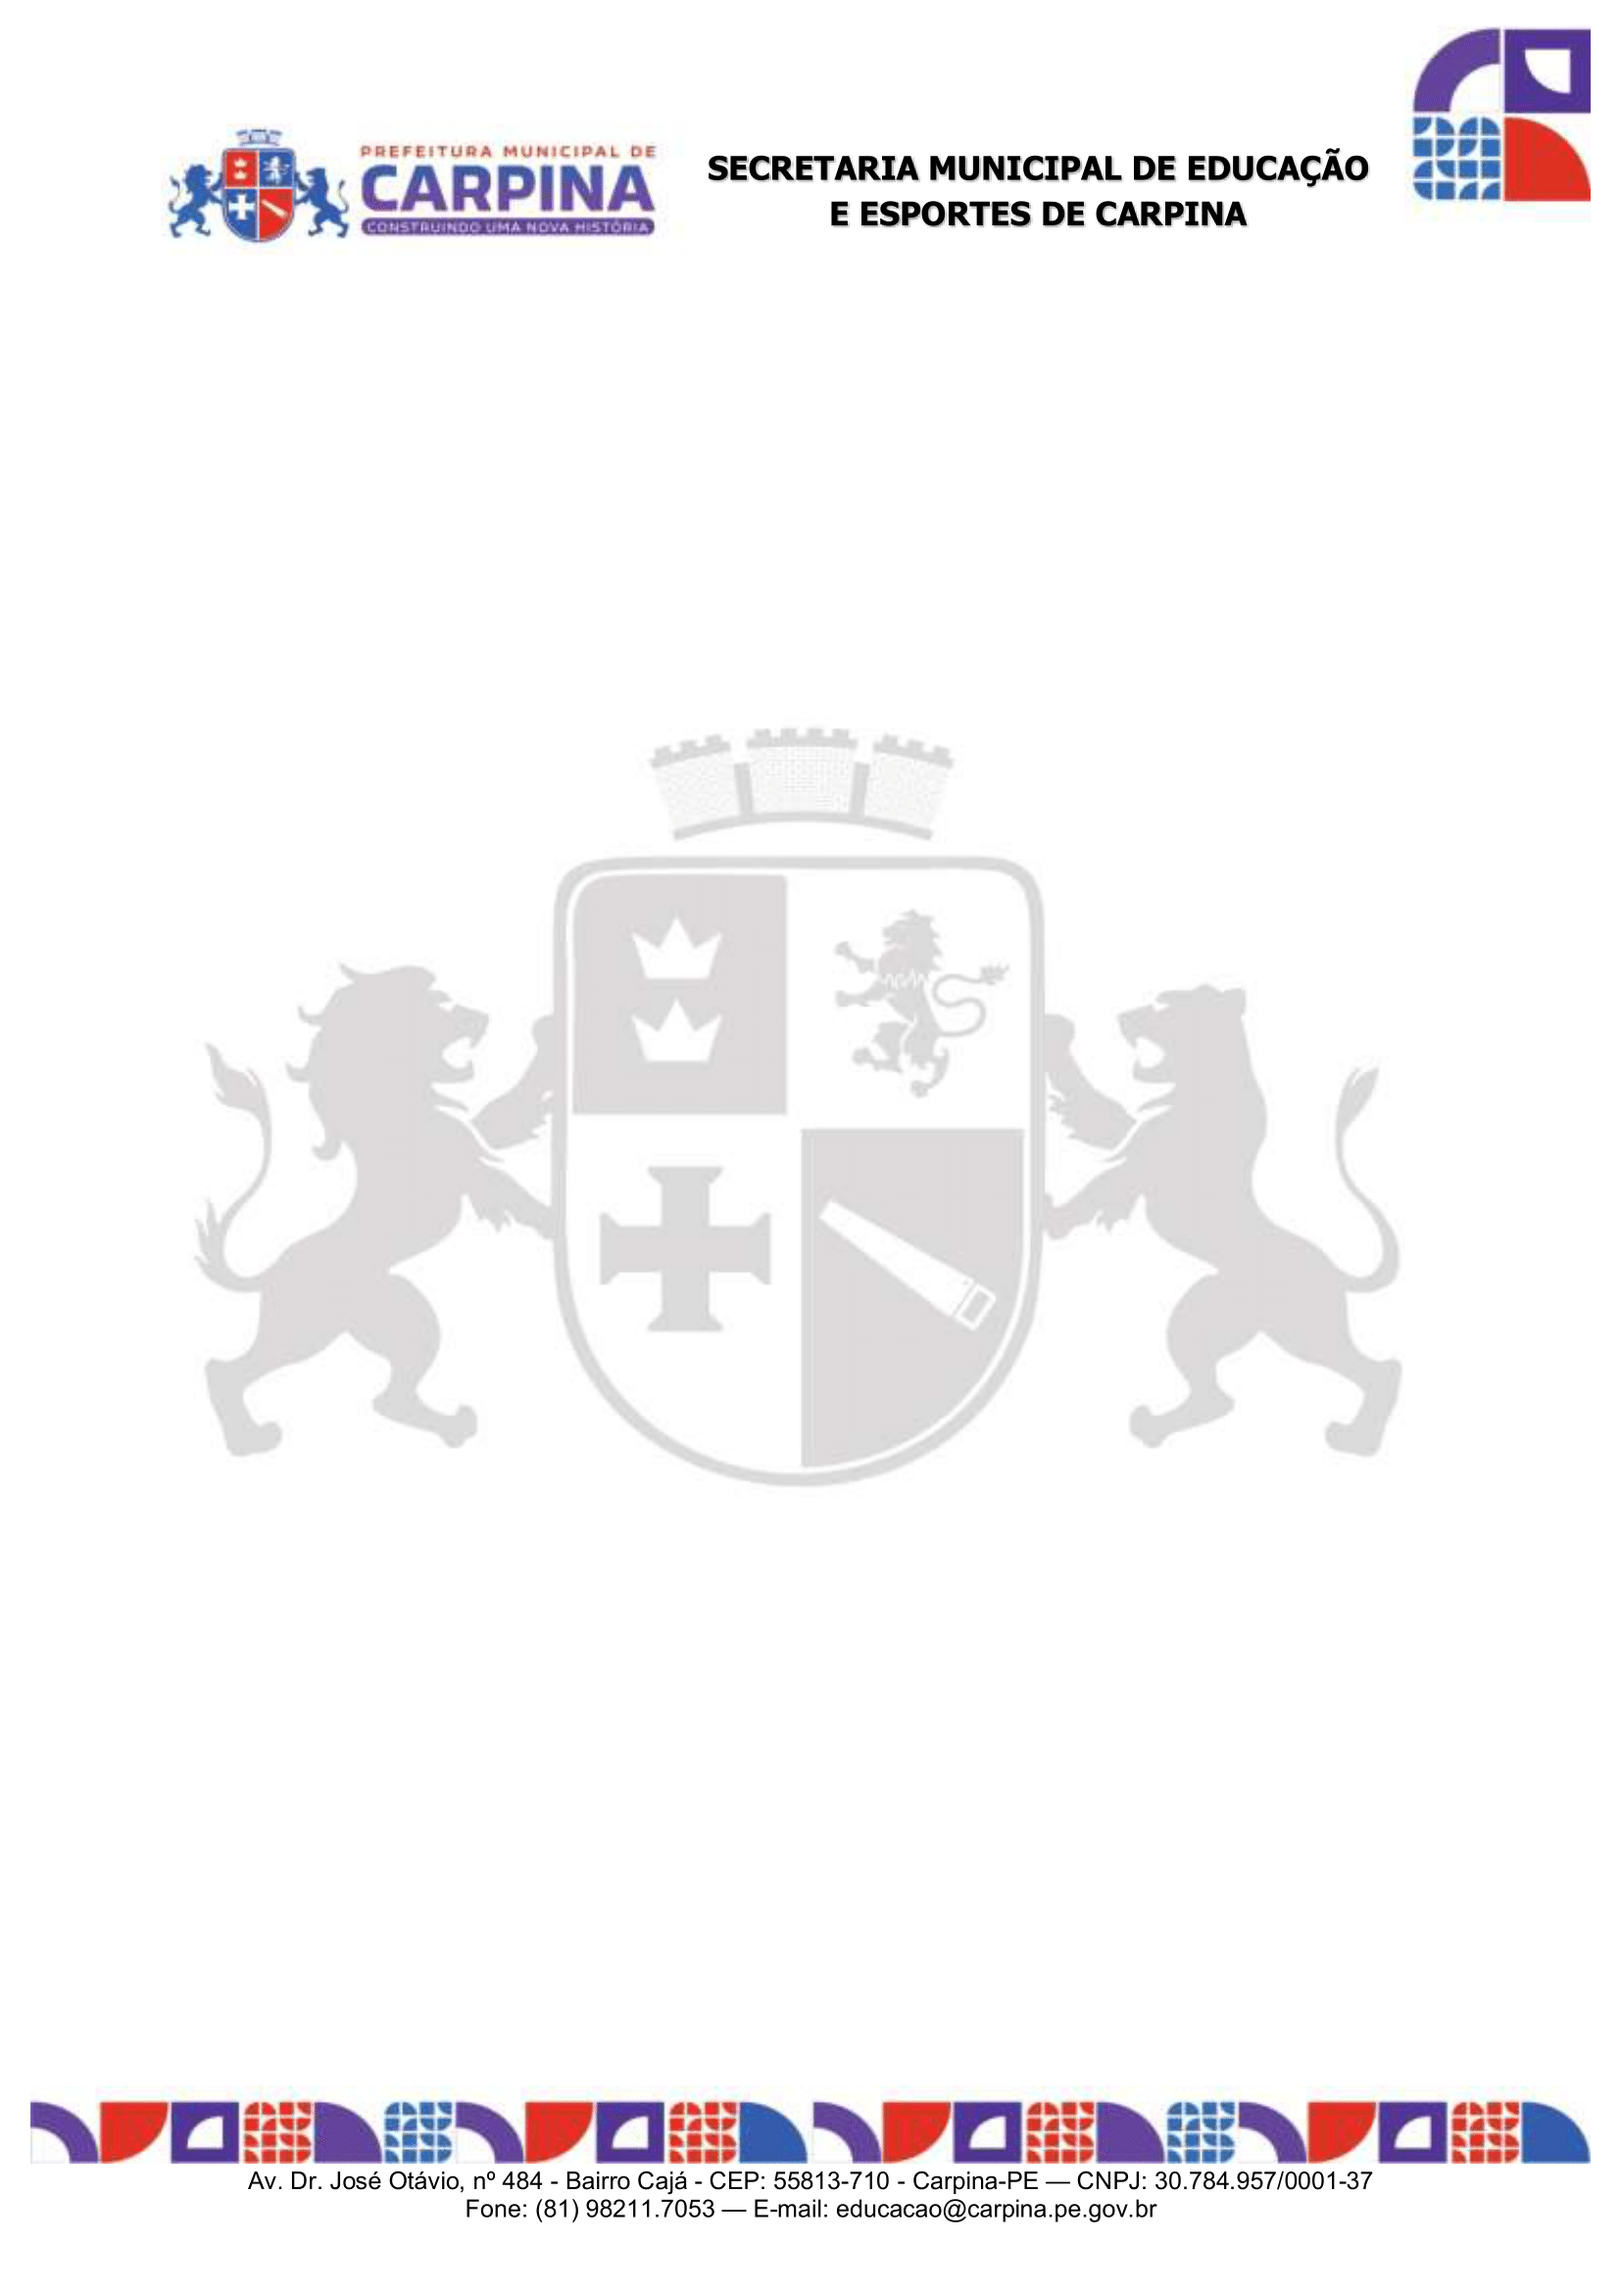
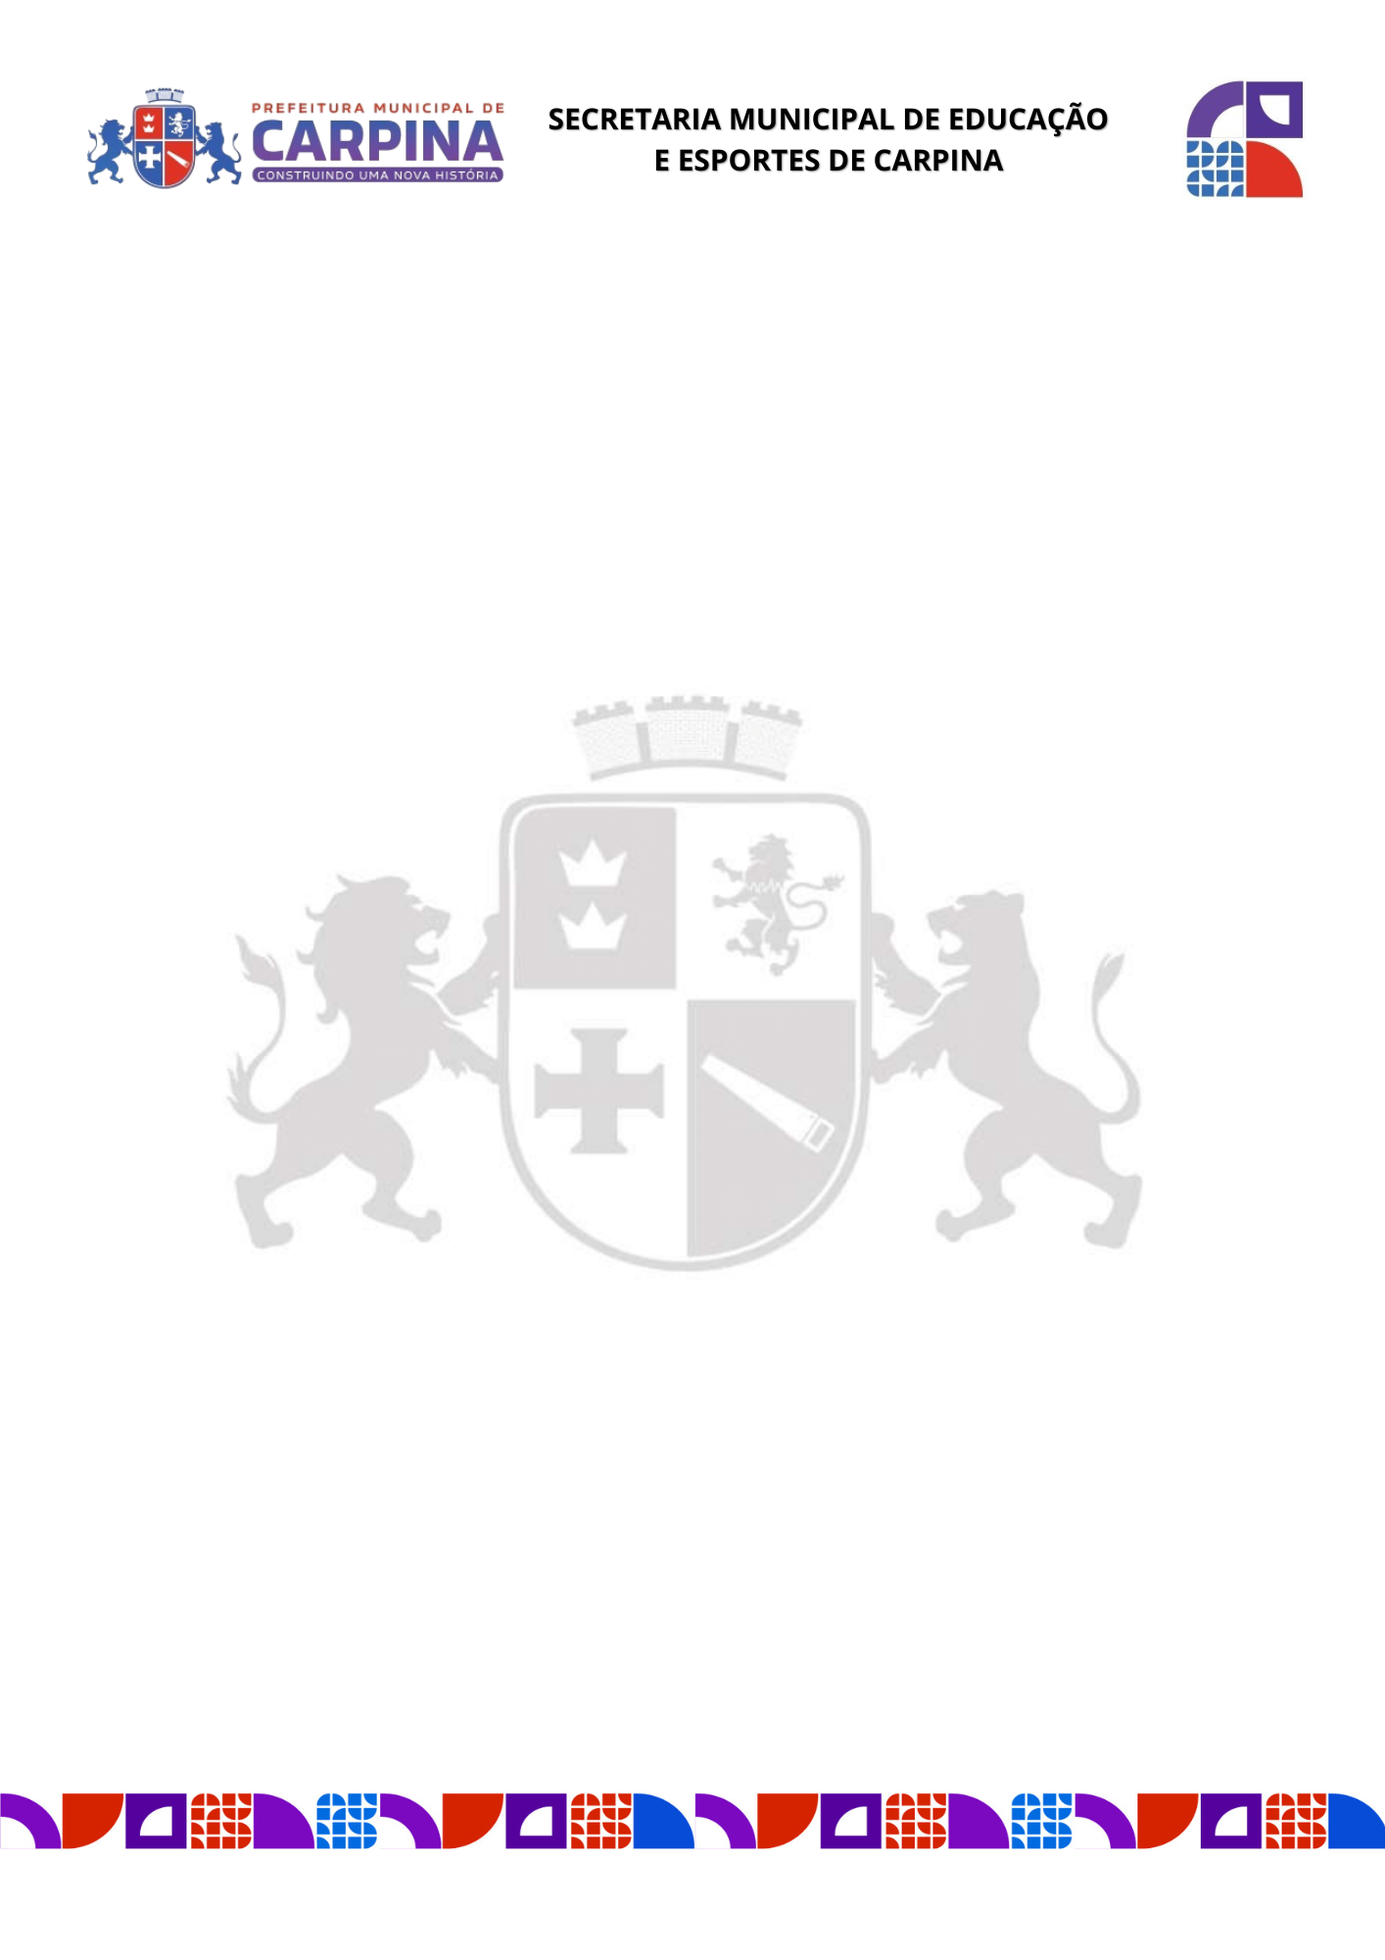
Cria a página de quadros distributivos

diff --git a/src/js/quadros.js b/src/js/quadros.js
@@ -1,0 +1,199 @@
+import { rtdb } from "./firebaseConfig.js";
+import {
+  ref,
+  onValue,
+} from "https://www.gstatic.com/firebasejs/11.0.1/firebase-database.js";
+
+const selectLocal = document.getElementById("selectLocal");
+const btnGerar = document.getElementById("btnGerarQuadro");
+
+let servidores = [];
+let locais = [];
+
+// ===============================
+// 🔄 ESTADO INICIAL (CARREGANDO)
+// ===============================
+selectLocal.innerHTML = `<option>Carregando...</option>`;
+selectLocal.disabled = true;
+
+// ===============================
+// 🔥 CARREGAR SERVIDORES
+// ===============================
+onValue(ref(rtdb, "servidores/registros"), (snap) => {
+  if (!snap.exists()) return;
+
+  servidores = Object.values(snap.val());
+});
+
+// ===============================
+// 🔥 CARREGAR LOCAIS
+// ===============================
+onValue(ref(rtdb, "servidores/locaisExercicio"), (snap) => {
+  selectLocal.innerHTML = "";
+
+  if (!snap.exists()) {
+    selectLocal.innerHTML = `<option>Nenhuma lotação encontrada</option>`;
+    selectLocal.disabled = true;
+    return;
+  }
+
+  locais = Object.values(snap.val());
+
+  // opção padrão
+  const optDefault = document.createElement("option");
+  optDefault.value = "";
+  optDefault.textContent = "Selecione uma lotação";
+  optDefault.disabled = true;
+  optDefault.selected = true;
+  selectLocal.appendChild(optDefault);
+
+  // opções
+  locais.forEach((l) => {
+    const opt = document.createElement("option");
+    opt.value = l;
+    opt.textContent = l;
+    selectLocal.appendChild(opt);
+  });
+
+  selectLocal.disabled = false;
+});
+
+// ===============================
+// 📄 GERAR PDF
+// ===============================
+btnGerar.addEventListener("click", () => {
+  const local = selectLocal.value;
+
+  if (!local) {
+    mostrarNotificacao("Selecione uma lotação.", "erro");
+    return;
+  }
+
+  const filtrados = servidores.filter(
+    (s) => s.localExercicio === local && s.situacao === "Ativo",
+  );
+
+  if (!filtrados.length) {
+    mostrarNotificacao("Nenhum servidor encontrado.", "erro");
+    return;
+  }
+
+  gerarPDF(local, filtrados);
+});
+
+// ===============================
+// 🧾 FUNÇÃO PDF
+// ===============================
+function gerarPDF(local, lista) {
+  const { jsPDF } = window.jspdf;
+  const doc = new jsPDF("p", "mm", "a4");
+
+  const largura = 210;
+  const altura = 297;
+
+  const img = new Image();
+  img.src = "./src/images/papel-timbrado.png";
+
+  img.onload = () => {
+    const MARGEM_TOPO = 40;
+    let y = MARGEM_TOPO;
+
+    const hoje = new Date().toLocaleDateString("pt-BR");
+
+    function novaPagina() {
+      doc.addPage();
+      doc.addImage(img, "PNG", 0, 0, largura, altura);
+      y = MARGEM_TOPO;
+    }
+
+    // primeira página
+    doc.addImage(img, "PNG", 0, 0, largura, altura);
+
+    // título
+    doc.setFontSize(14);
+    doc.text("QUADRO DE SERVIDORES", 105, y, { align: "center" });
+
+    y += 8;
+    doc.setFontSize(11);
+    doc.text(local, 105, y, { align: "center" });
+
+    y += 6;
+    doc.setFontSize(9);
+    doc.text(`Gerado em ${hoje}`, 105, y, { align: "center" });
+
+    y += 10;
+
+    // agrupar por cargo
+    const grupos = {};
+    lista.forEach((s) => {
+      if (!grupos[s.cargo]) grupos[s.cargo] = [];
+      grupos[s.cargo].push(s);
+    });
+
+    Object.keys(grupos)
+      .sort()
+      .forEach((cargo) => {
+        y += 8;
+
+        if (y > 260) novaPagina();
+
+        doc.setFontSize(12);
+        doc.setFont(undefined, "bold");
+        doc.text(cargo.toUpperCase(), 10, y);
+
+        y += 4;
+        doc.setFont(undefined, "normal");
+
+        grupos[cargo]
+          .sort((a, b) => a.nome.localeCompare(b.nome))
+          .forEach((s) => {
+            y += 6;
+
+            if (y > 260) novaPagina();
+
+            // cor do vínculo
+            if (s.vinculo.toLowerCase().includes("efetivo")) {
+              doc.setFillColor(144, 238, 144);
+            } else {
+              doc.setFillColor(255, 255, 153);
+            }
+
+            doc.rect(10, y - 4, 190, 6, "F");
+            doc.text(s.nome, 12, y);
+          });
+      });
+
+    // =========================
+    // 📌 RODAPÉ
+    // =========================
+    const totalPaginas = doc.getNumberOfPages();
+
+    for (let i = 1; i <= totalPaginas; i++) {
+      doc.setPage(i);
+
+      let yRodape = altura - 10;
+
+      doc.setFontSize(9);
+
+      // verde
+      doc.setFillColor(144, 238, 144);
+      doc.rect(10, yRodape - 4, 5, 5, "F");
+      doc.text("Efetivos", 17, yRodape);
+
+      // amarelo
+      doc.setFillColor(255, 255, 153);
+      doc.rect(60, yRodape - 4, 5, 5, "F");
+      doc.text("Contratos", 67, yRodape);
+
+      // paginação
+      doc.text(`Página ${i} de ${totalPaginas}`, largura - 20, yRodape, {
+        align: "right",
+      });
+    }
+
+    // abrir em nova aba
+    const blob = doc.output("blob");
+    const url = URL.createObjectURL(blob);
+    window.open(url, "_blank");
+  };
+}

diff --git a/quadros.html b/quadros.html
@@ -1,0 +1,58 @@
+<!doctype html>
+<html lang="pt-br">
+  <head>
+    <meta charset="UTF-8" />
+    <meta name="viewport" content="width=device-width, initial-scale=1.0" />
+    <title>Quadro de Servidores - SEE Carpina</title>
+    <link rel="stylesheet" href="./src/css/style.css" />
+    <link
+      rel="stylesheet"
+      href="https://fonts.googleapis.com/css2?family=Material+Symbols+Outlined:opsz,wght,FILL,GRAD@20..48,100..700,0..1,-50..200"
+    />
+  </head>
+
+  <body>
+    <button id="btnTopo">↑</button>
+    <div class="loading">
+      <svg
+        class="svg-spinner"
+        viewBox="0 0 50 50"
+        role="img"
+        aria-label="Carregando"
+      >
+        <circle
+          class="path"
+          cx="25"
+          cy="25"
+          r="20"
+          fill="none"
+          stroke-width="4"
+        />
+      </svg>
+    </div>
+    <div class="container">
+      <aside id="sidebar"></aside>
+      <main>
+        <h1>Quadro de Servidores</h1>
+
+        <div class="box">
+          <div class="primary">
+            <marquee>
+              OBS: Em construção e atualização. Não usar como oficial
+            </marquee>
+          </div>
+          <label>Selecione a escola:</label>
+          <select id="selectLocal"></select>
+
+          <button id="btnGerarQuadro" class="btn">📄 Gerar PDF</button>
+        </div>
+      </main>
+      <div class="right"></div>
+    </div>
+
+    <script src="https://cdn.jsdelivr.net/npm/xlsx@0.18.5/dist/xlsx.full.min.js"></script>
+    <script type="module" src="./src/js/scripts.js"></script>
+    <script src="https://cdnjs.cloudflare.com/ajax/libs/jspdf/2.5.1/jspdf.umd.min.js"></script>
+    <script type="module" src="./src/js/quadros.js"></script>
+  </body>
+</html>

diff --git a/src/template/sidebar.html b/src/template/sidebar.html
@@ -28,6 +28,11 @@
     <h3>Servidores</h3>
   </a>
 
+  <a href="./quadros" data-role="ADM,GERENTE,TECNICO,SECRETÁRIA">
+    <span class="material-symbols-outlined">table_chart</span>
+    <h3>Quadros Distributivos</h3>
+  </a>
+
   <a href="./checklist" data-role="ADM">
     <span class="material-symbols-outlined">checklist</span>
     <h3>Checklist</h3>
